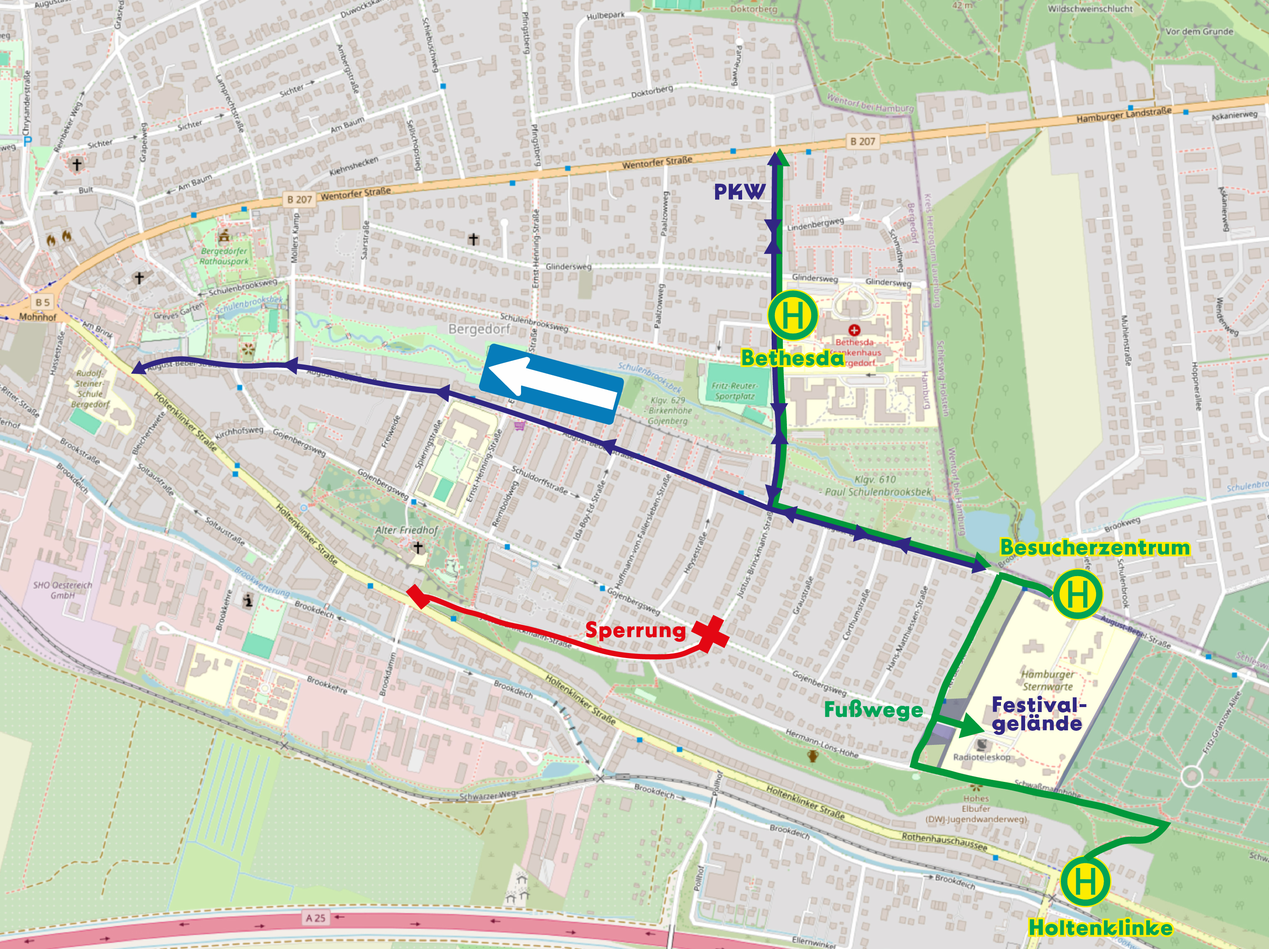
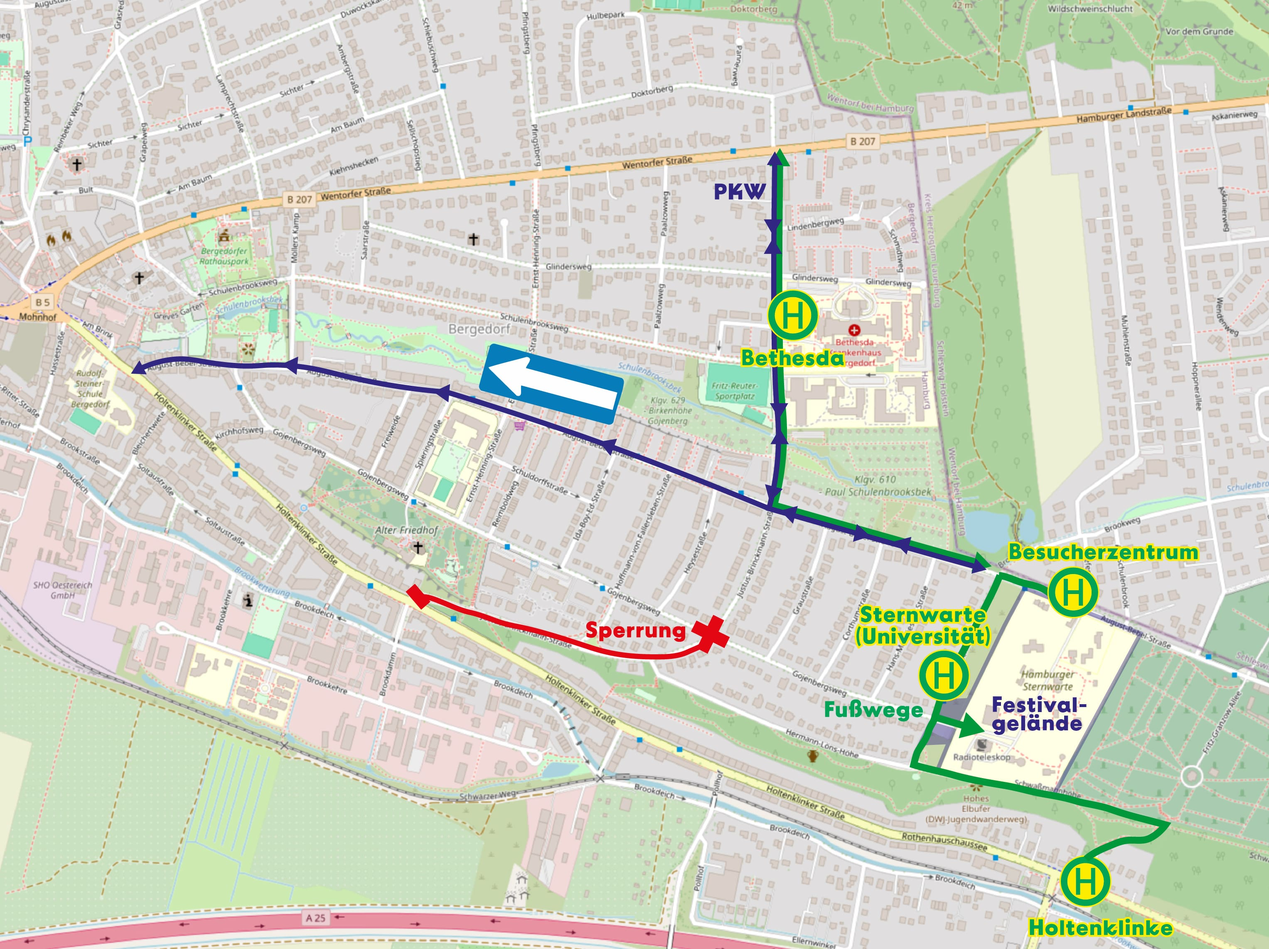
change anfahrt

diff --git a/app/anfahrt/page.tsx b/app/anfahrt/page.tsx
@@ -70,7 +70,7 @@ const Anfahrt = () => {
       <div>
       <h3>🚌 Anreise mit dem ÖPNV</h3>
       <ul>
-        <li>Buslinien 332 und 135 (Haltestelle Sternwarte Besucherzentrum)</li>
+        <li>Buslinien 332 und 135 (Haltestelle Sternwarte (Universität))</li>
         <li><strong>Alternative:</strong> Linien 8890 und 228 alle 10 Minuten bis Haltestelle Holtenklinke</li>
         → Treppe und Fußweg zur Sternwarte von dort<br/>
         → recht steiler Weg
